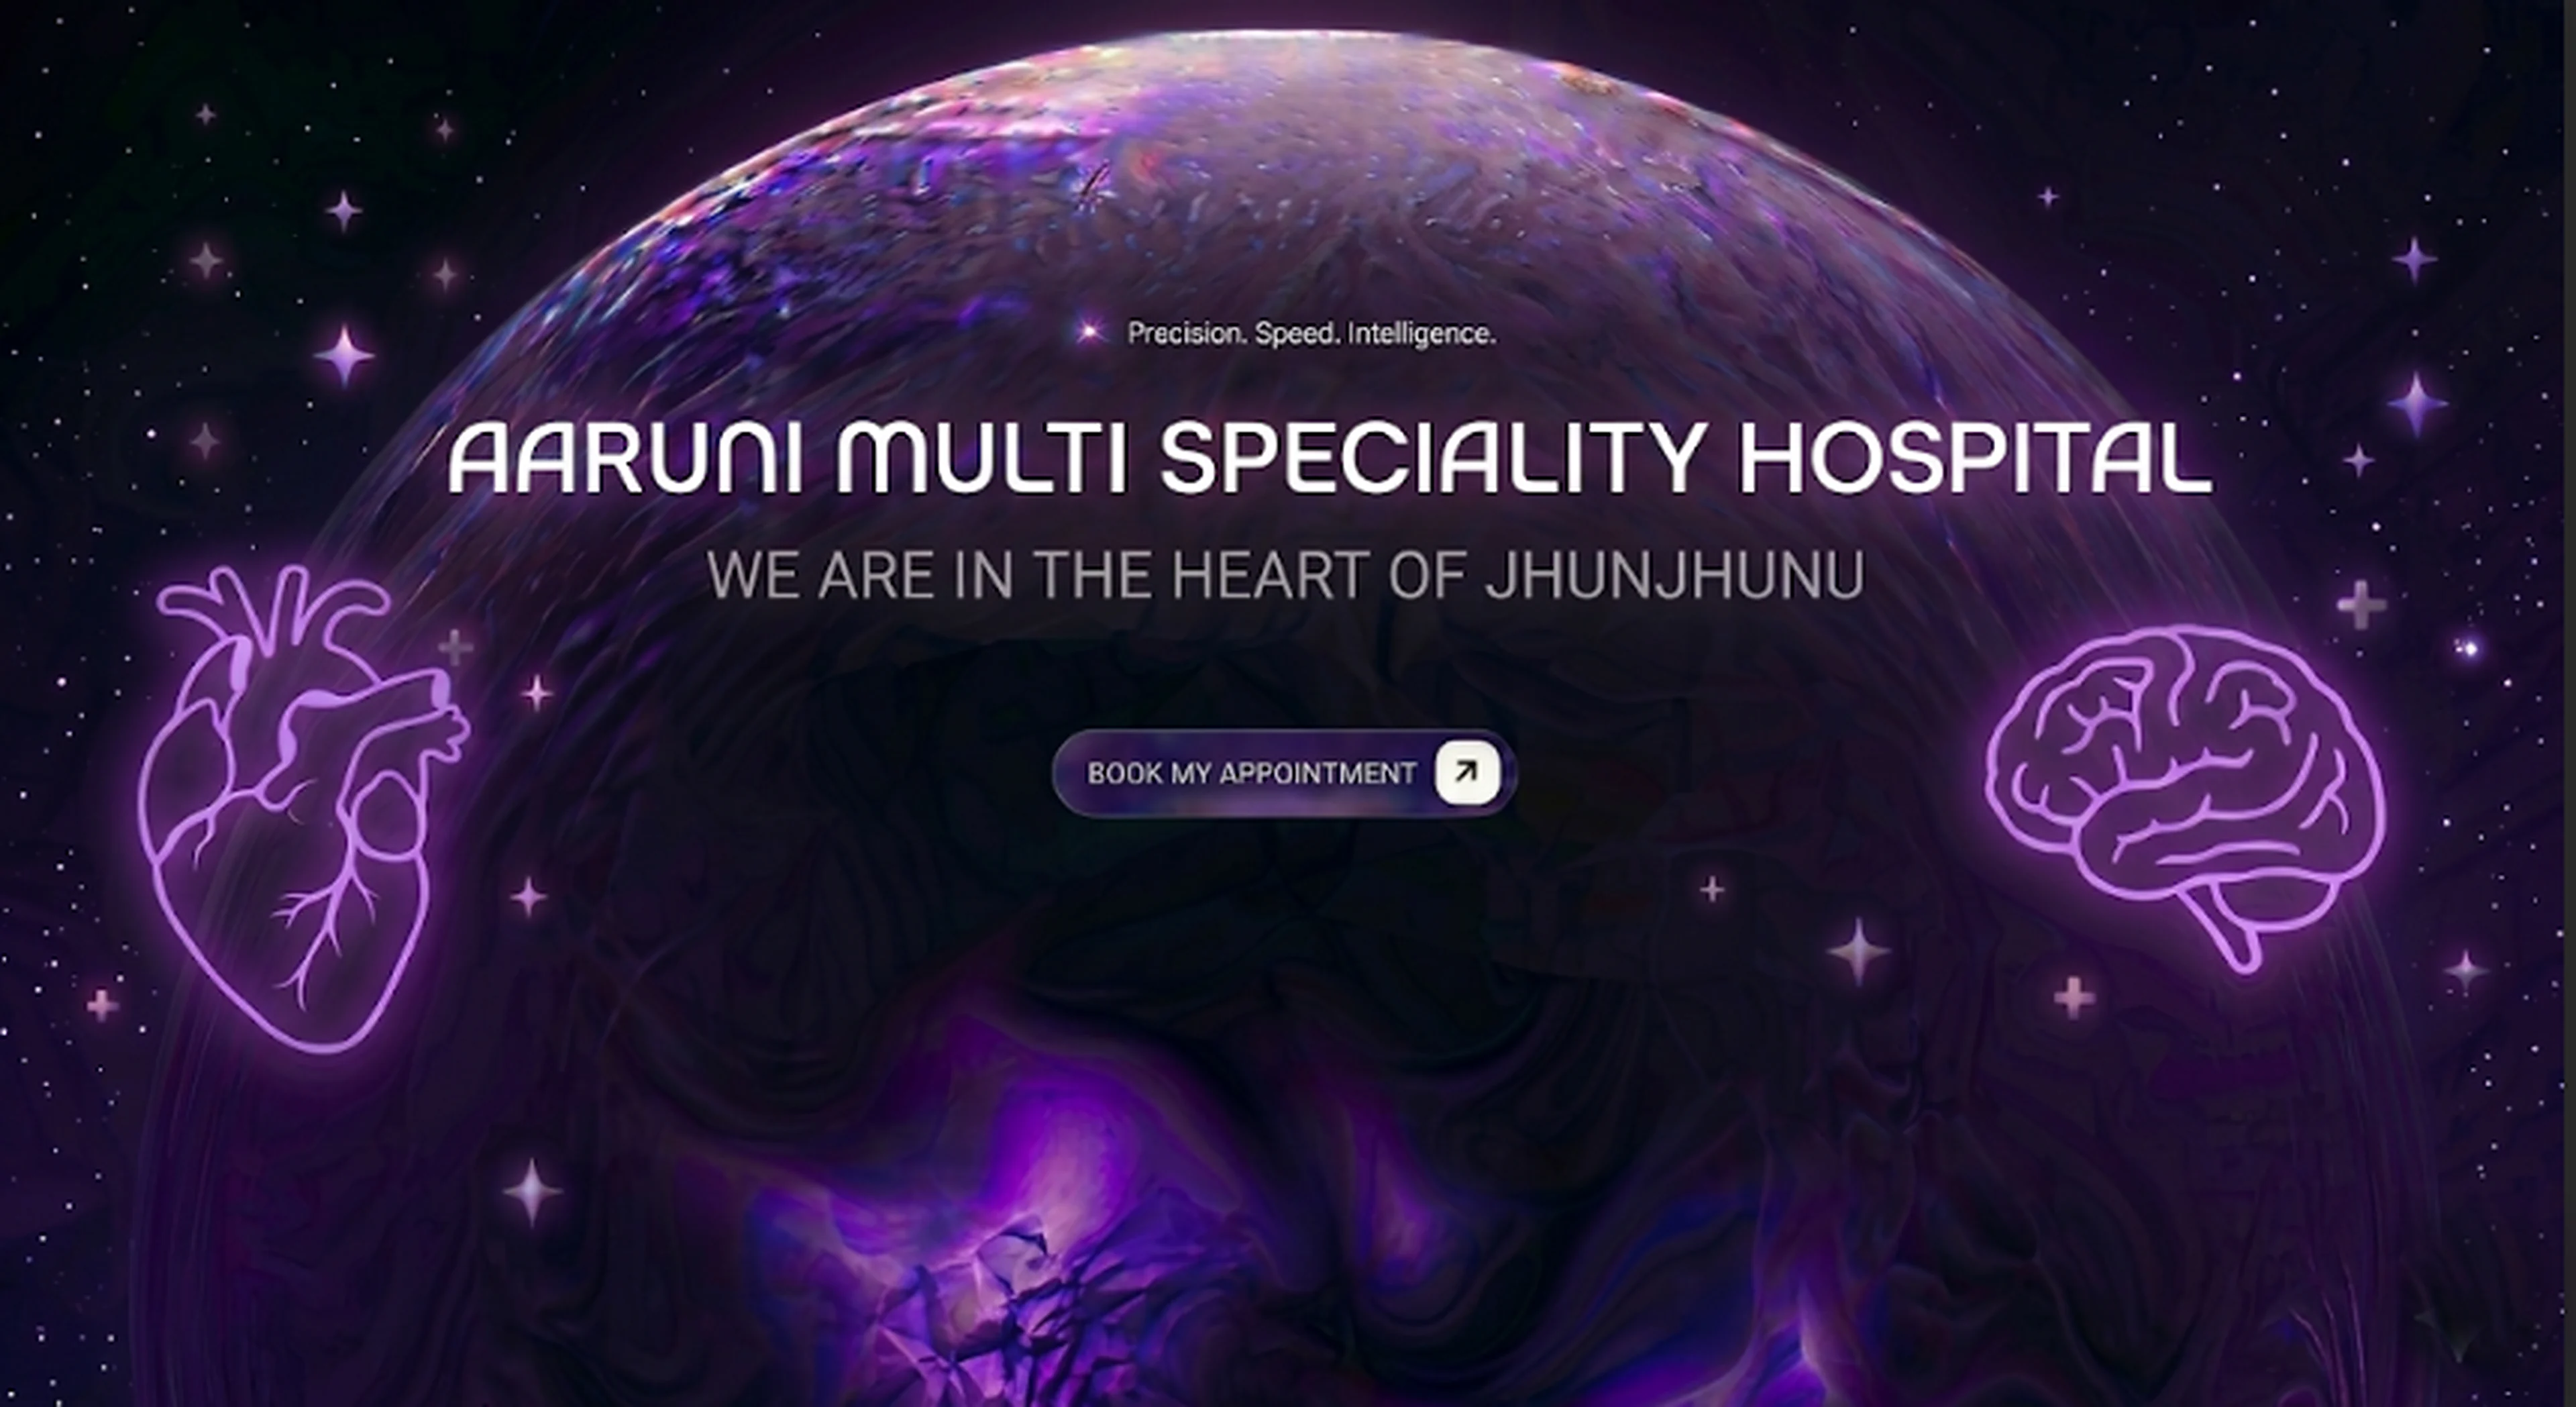
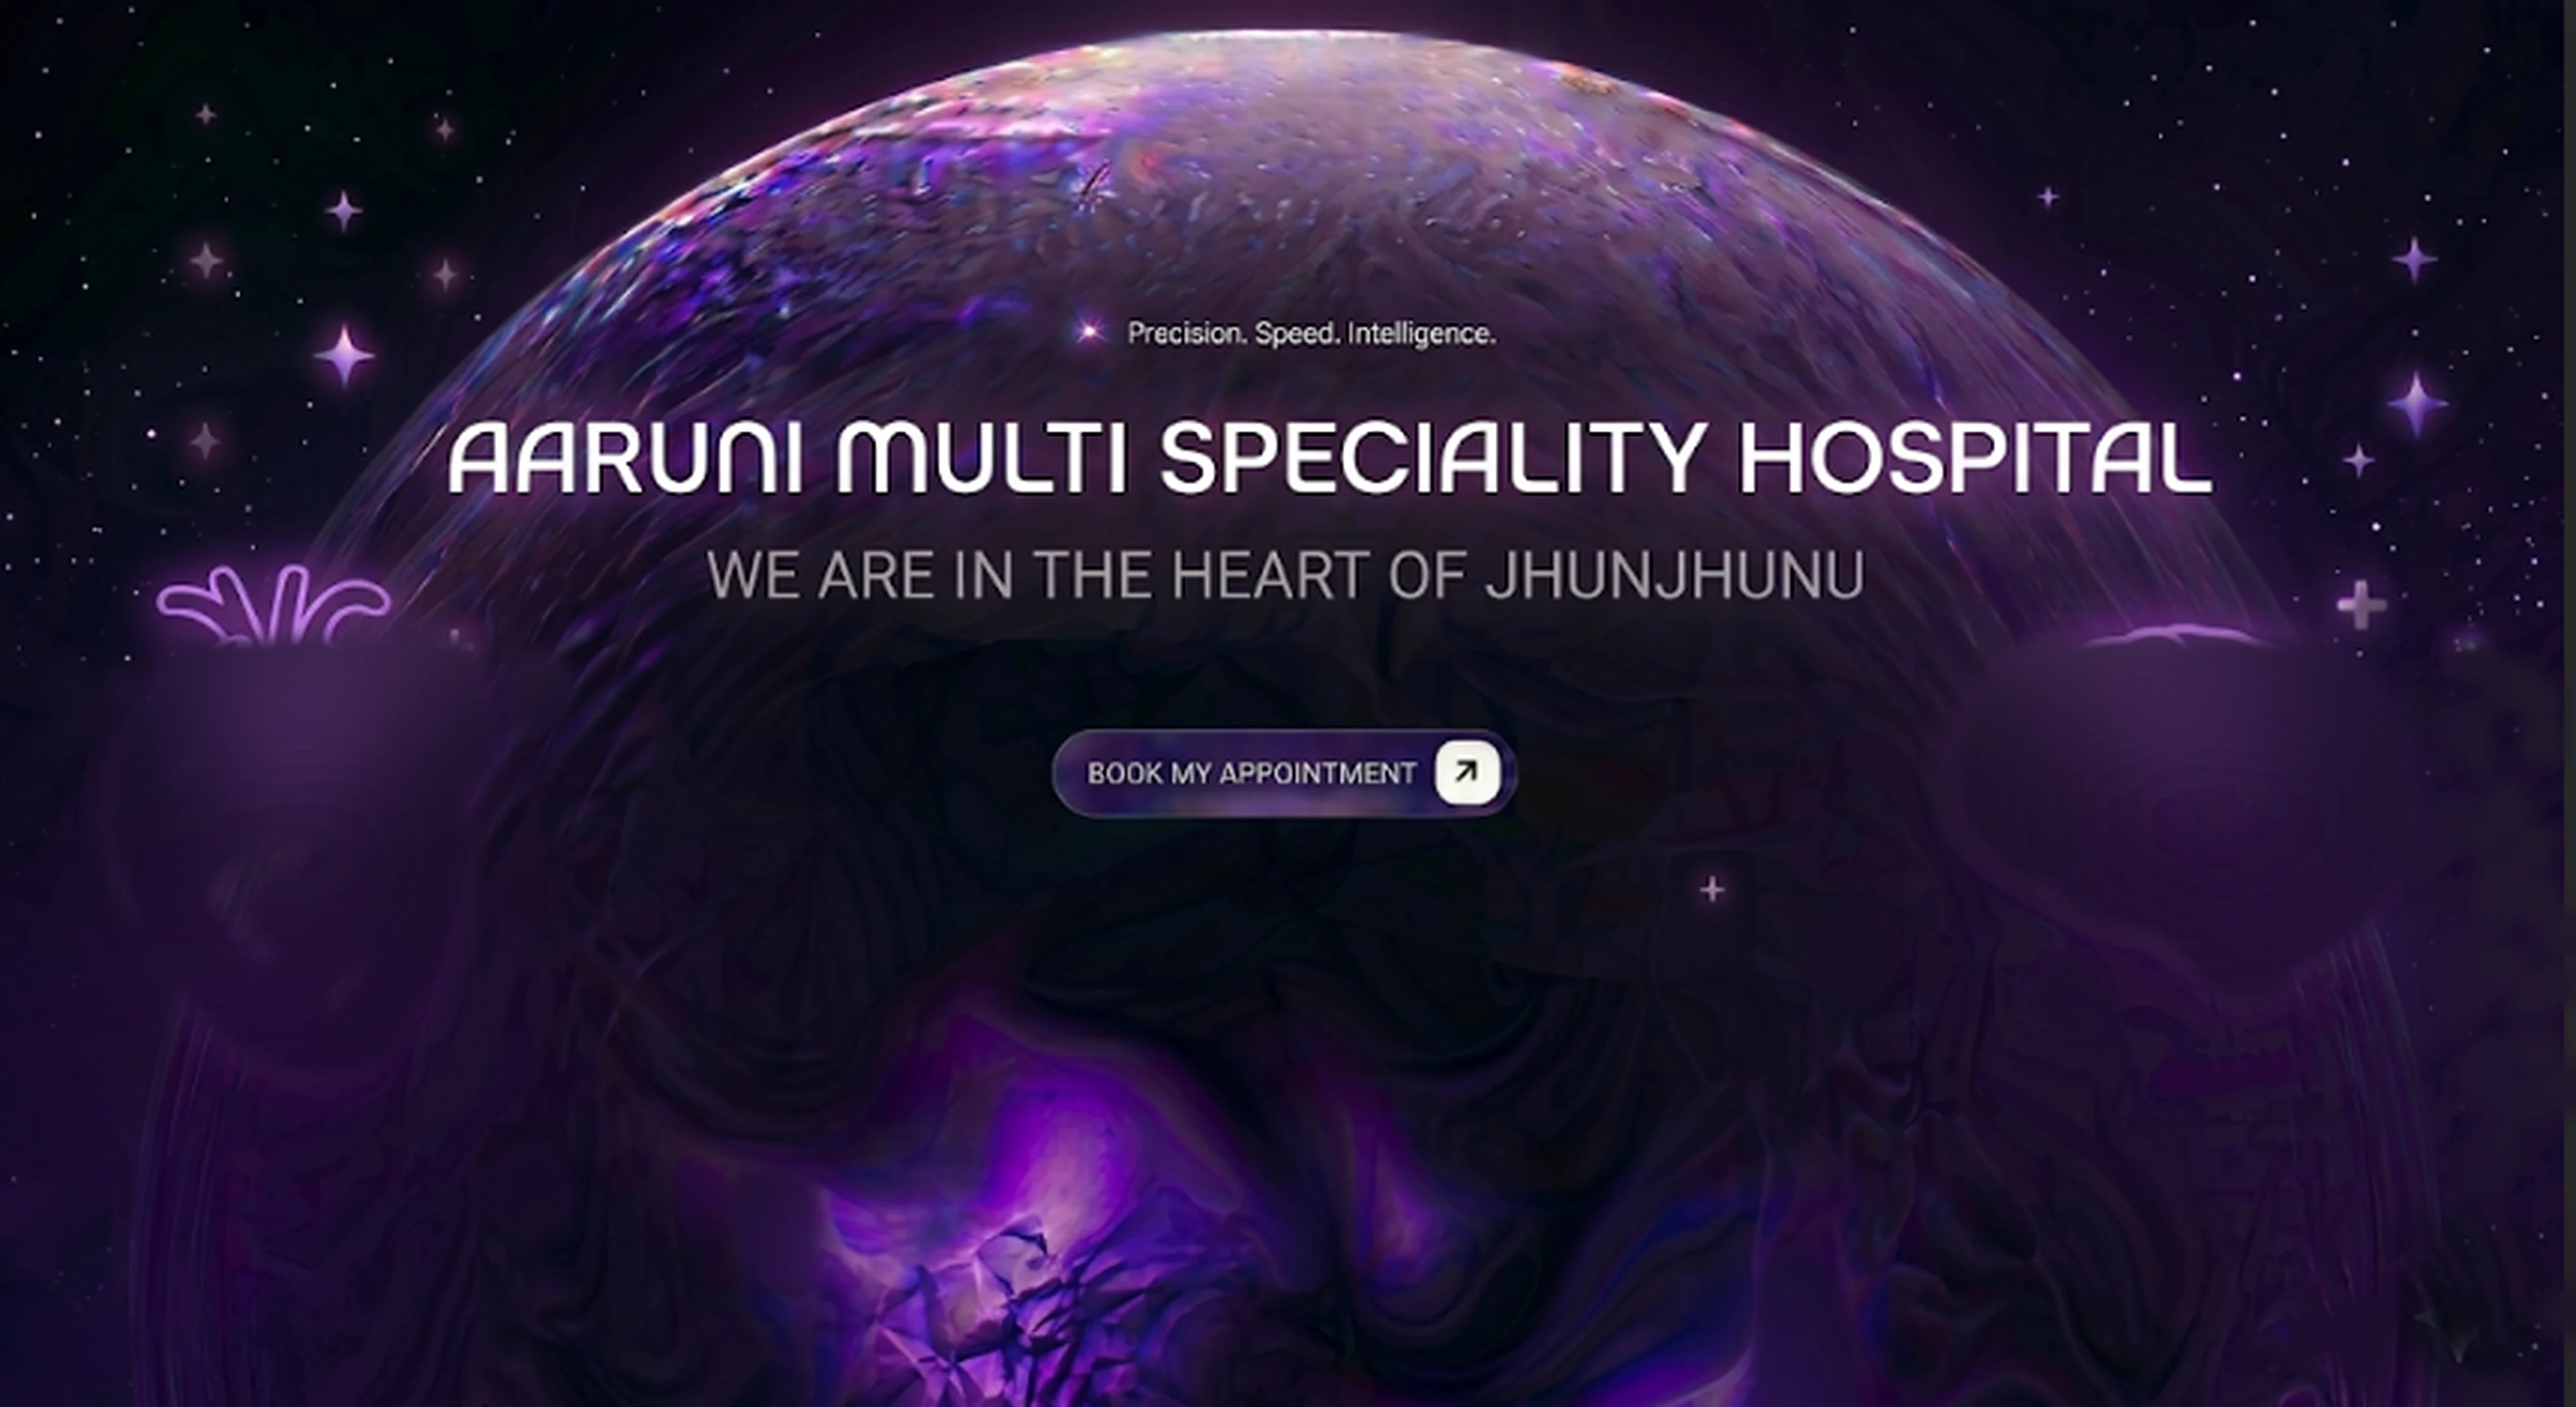
Hero: cut out heart & brain as independently floating layers (desktop), add realistic twinkling starfield + cinematic shooting stars; remove whole-hero float, keep subtle 3D tilt

diff --git a/assets/js/clinic.js b/assets/js/clinic.js
@@ -77,21 +77,23 @@
     function spawn() {
       var s = document.createElement('span');
       s.className = 'shooting';
-      var len = 70 + Math.random() * 70;
-      var dist = 260 + Math.random() * 280;
+      var big = Math.random() < 0.28;                      // occasional dramatic streak
+      var len = big ? (150 + Math.random() * 90) : (70 + Math.random() * 70);
+      var dist = (big ? 440 : 280) + Math.random() * 260;
       var ang = (Math.random() < 0.5 ? 22 : 152) + (Math.random() * 16 - 8);
       var rad = ang * Math.PI / 180;
       var dx = Math.cos(rad) * dist, dy = Math.sin(rad) * dist;
       s.style.width = len + 'px';
+      if (big) s.style.height = '3px';
       s.style.left = (Math.random() * 92) + '%';
-      s.style.top = (Math.random() * 46) + '%';
+      s.style.top = (Math.random() * 48) + '%';
       host.appendChild(s);
       var anim = s.animate([
         { transform: 'translate(0,0) rotate(' + ang + 'deg)', opacity: 0 },
-        { opacity: 1, offset: 0.12 },
-        { opacity: 0.9, offset: 0.75 },
+        { opacity: 1, offset: 0.1 },
+        { opacity: 0.95, offset: 0.78 },
         { transform: 'translate(' + dx + 'px,' + dy + 'px) rotate(' + ang + 'deg)', opacity: 0 }
-      ], { duration: 700 + Math.random() * 500, easing: 'cubic-bezier(.3,.1,.25,1)' });
+      ], { duration: (big ? 1100 : 720) + Math.random() * 520, easing: 'cubic-bezier(.3,.1,.25,1)' });
       anim.onfinish = function () { s.remove(); };
     }
     (function cycle() {
@@ -101,28 +103,22 @@
     })();
   })();
 
-  /* ---- hero life: gentle float (heart & brain bob) + 3D tilt on desktop ---- */
-  (function heroLife() {
+  /* ---- hero 3D tilt on desktop (depth; the organs float on their own via CSS) ---- */
+  (function heroTilt() {
     var hero = $('.hero'), stage = $('.hero__stage');
-    if (reduce || !hero || !stage) return;
-    var now0 = (window.performance ? performance.now() : Date.now());
+    if (reduce || !fine || !hero || !stage) return;
     var tx = 0, ty = 0, cx = 0, cy = 0;
-    if (fine) {
-      hero.addEventListener('mousemove', function (e) {
-        var r = hero.getBoundingClientRect();
-        tx = ((e.clientX - r.left) / r.width - 0.5) * 2;
-        ty = ((e.clientY - r.top) / r.height - 0.5) * 2;
-      });
-      hero.addEventListener('mouseleave', function () { tx = 0; ty = 0; });
-    }
-    (function frame(now) {
-      now = now || (window.performance ? performance.now() : Date.now());
+    hero.addEventListener('mousemove', function (e) {
+      var r = hero.getBoundingClientRect();
+      tx = ((e.clientX - r.left) / r.width - 0.5) * 2;
+      ty = ((e.clientY - r.top) / r.height - 0.5) * 2;
+    });
+    hero.addEventListener('mouseleave', function () { tx = 0; ty = 0; });
+    (function frame() {
       cx += (tx - cx) * 0.08; cy += (ty - cy) * 0.08;
-      var fy = Math.sin((now - now0) / 850) * 5;
-      var rot = fine ? (' rotateY(' + (cx * 3.5).toFixed(2) + 'deg) rotateX(' + (-cy * 2.5).toFixed(2) + 'deg)') : '';
-      stage.style.transform = 'translateY(' + fy.toFixed(2) + 'px)' + rot;
+      stage.style.transform = 'rotateY(' + (cx * 3).toFixed(2) + 'deg) rotateX(' + (-cy * 2).toFixed(2) + 'deg)';
       requestAnimationFrame(frame);
-    })(now0);
+    })();
   })();
 
   /* ---- scroll reveals (hero animates on load; rest on scroll) ---- */

diff --git a/assets/css/clinic.css b/assets/css/clinic.css
@@ -130,8 +130,22 @@ body.nav-open .navtoggle span:nth-child(3){transform:translateY(-7px) rotate(-45
 /* shooting-stars layer (over the sky, behind the button) */
 .hero__shooting{position:absolute;inset:0;z-index:2;pointer-events:none;overflow:hidden}
 .shooting{position:absolute;height:2px;border-radius:2px;transform-origin:right center;opacity:0;
-  background:linear-gradient(to right,transparent,rgba(214,164,255,.6) 55%,#fff);
-  filter:drop-shadow(0 0 5px rgba(214,164,255,.85))}
+  background:linear-gradient(to right,transparent,rgba(200,210,255,.55) 50%,#fff);
+  filter:drop-shadow(0 0 6px rgba(214,224,255,.95)) drop-shadow(0 0 14px rgba(160,120,255,.6))}
+/* realistic twinkling starfield — deep-space depth behind the planet */
+.hero__stars{position:absolute;inset:0;z-index:1;pointer-events:none;
+  background:url("../img/starfield.png") center/cover no-repeat;opacity:.55;
+  -webkit-mask-image:radial-gradient(ellipse 58% 42% at 50% 5%,transparent 36%,#000 86%);
+  mask-image:radial-gradient(ellipse 58% 42% at 50% 5%,transparent 36%,#000 86%);
+  animation:starTwinkle 5.5s ease-in-out infinite}
+@keyframes starTwinkle{0%,100%{opacity:.4}50%{opacity:.72}}
+/* floating organs cut from the hero image (independent float, desktop) */
+.hero__organ{position:absolute;z-index:4;pointer-events:none;height:auto;will-change:transform;
+  filter:drop-shadow(0 0 13px rgba(180,100,255,.55))}
+.hero__organ--heart{left:1%;top:49%;width:17.5%;animation:floatHeart 6s ease-in-out infinite}
+.hero__organ--brain{left:73%;top:49%;width:25.5%;animation:floatBrain 7.4s ease-in-out infinite}
+@keyframes floatHeart{0%,100%{transform:translateY(0) rotate(-1deg)}50%{transform:translateY(-15px) rotate(1.2deg)}}
+@keyframes floatBrain{0%,100%{transform:translateY(0) rotate(1deg)}50%{transform:translateY(-19px) rotate(-1.2deg)}}
 /* real BOOK MY APPOINTMENT button, sized in % to fully cover the baked one + a touch bigger */
 .hero__cta{position:absolute;left:50%;top:54.5%;transform:translate(-50%,-50%);z-index:6;
   display:inline-flex;align-items:center;justify-content:center;gap:.7em;min-width:22%;white-space:nowrap;cursor:pointer;
@@ -164,6 +178,9 @@ body.nav-open .navtoggle span:nth-child(3){transform:translateY(-7px) rotate(-45
   /* booking button sits in a different spot & size on the portrait image */
   .hero__cta{left:50%;top:53%;min-width:42%;font-size:3vw;gap:.5em;padding:.72em 1.1em;letter-spacing:.02em}
   .hero__cta-arrow{width:1.7em;height:1.7em}
+  /* mobile keeps the baked organs in its image, so hide the floating overlays */
+  .hero__organ{display:none}
+  .hero__stars{opacity:.4}
 }
 
 /* ---------- HIGHLIGHT STRIP ---------- */

diff --git a/index.html b/index.html
@@ -55,7 +55,11 @@
           <source media="(max-width:768px)" srcset="assets/img/hero-mobile.webp">
           <img src="assets/img/hero.webp" class="hero__bg" alt="Aaruni Multi Speciality Hospital — Precision, Speed, Intelligence. We are in the heart of Jhunjhunu." fetchpriority="high">
         </picture>
+        <span class="hero__stars" aria-hidden="true"></span>
         <span class="hero__shooting" id="heroShooting" aria-hidden="true"></span>
+        <!-- floating organs (cut out of the hero image) — desktop only -->
+        <img src="assets/img/heart-float.png" class="hero__organ hero__organ--heart" alt="" aria-hidden="true">
+        <img src="assets/img/brain-float.png" class="hero__organ hero__organ--brain" alt="" aria-hidden="true">
         <!-- Real button placed over (and covering) the baked-in BOOK MY APPOINTMENT button -->
         <a href="#appointment" class="hero__cta" aria-label="Book my appointment">
           <span class="hero__cta-txt">BOOK MY APPOINTMENT</span>